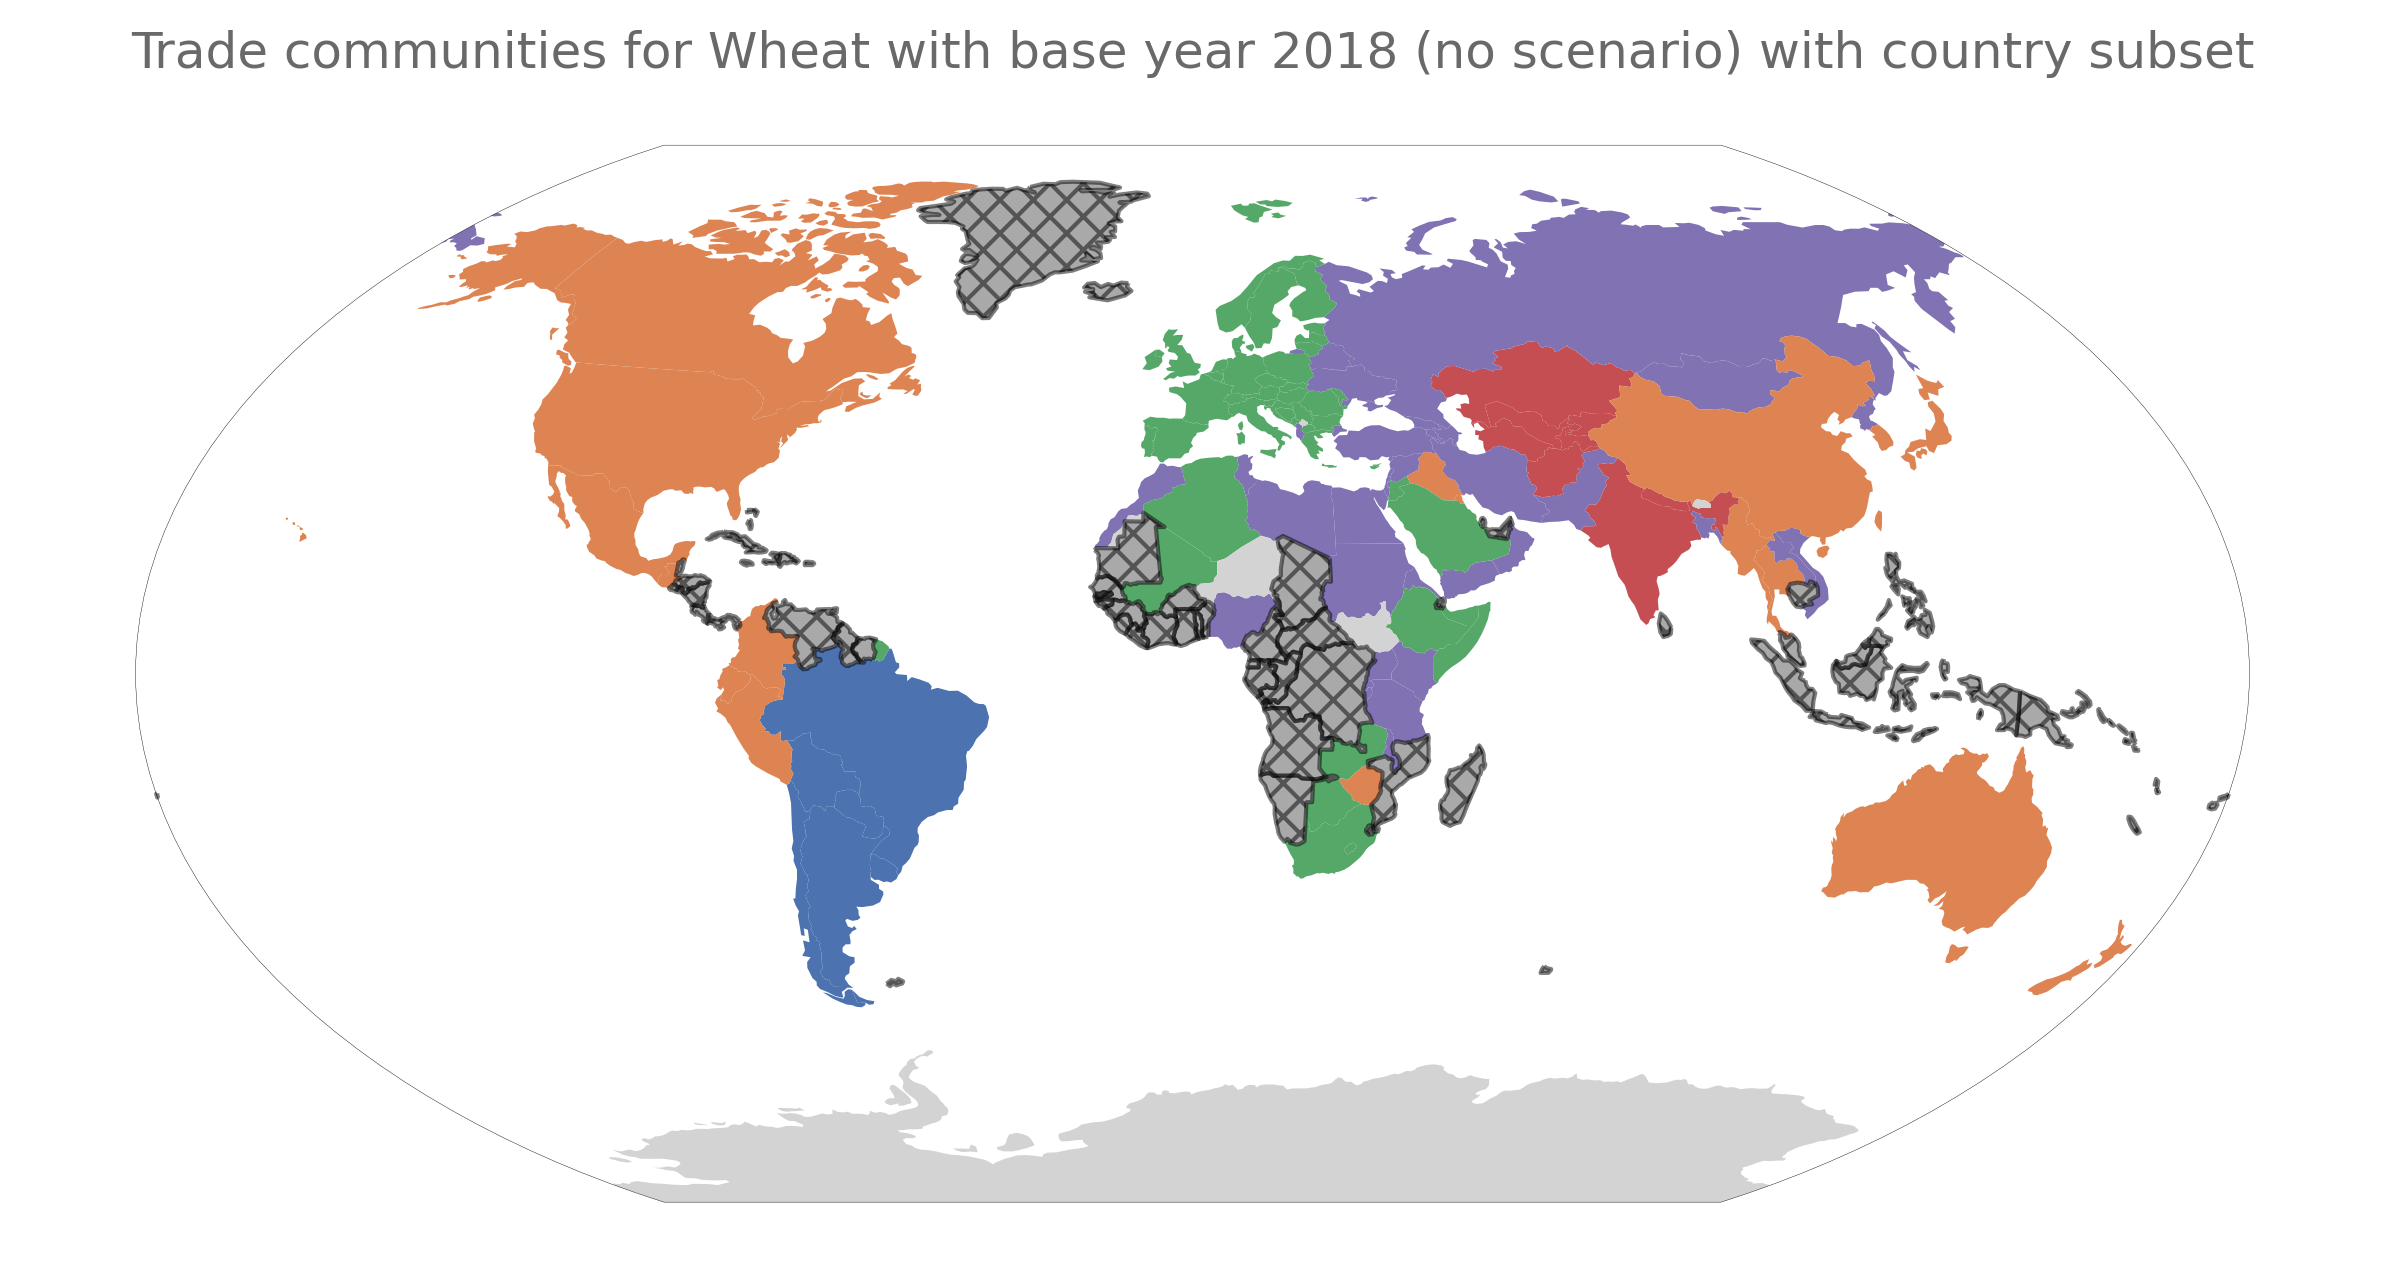
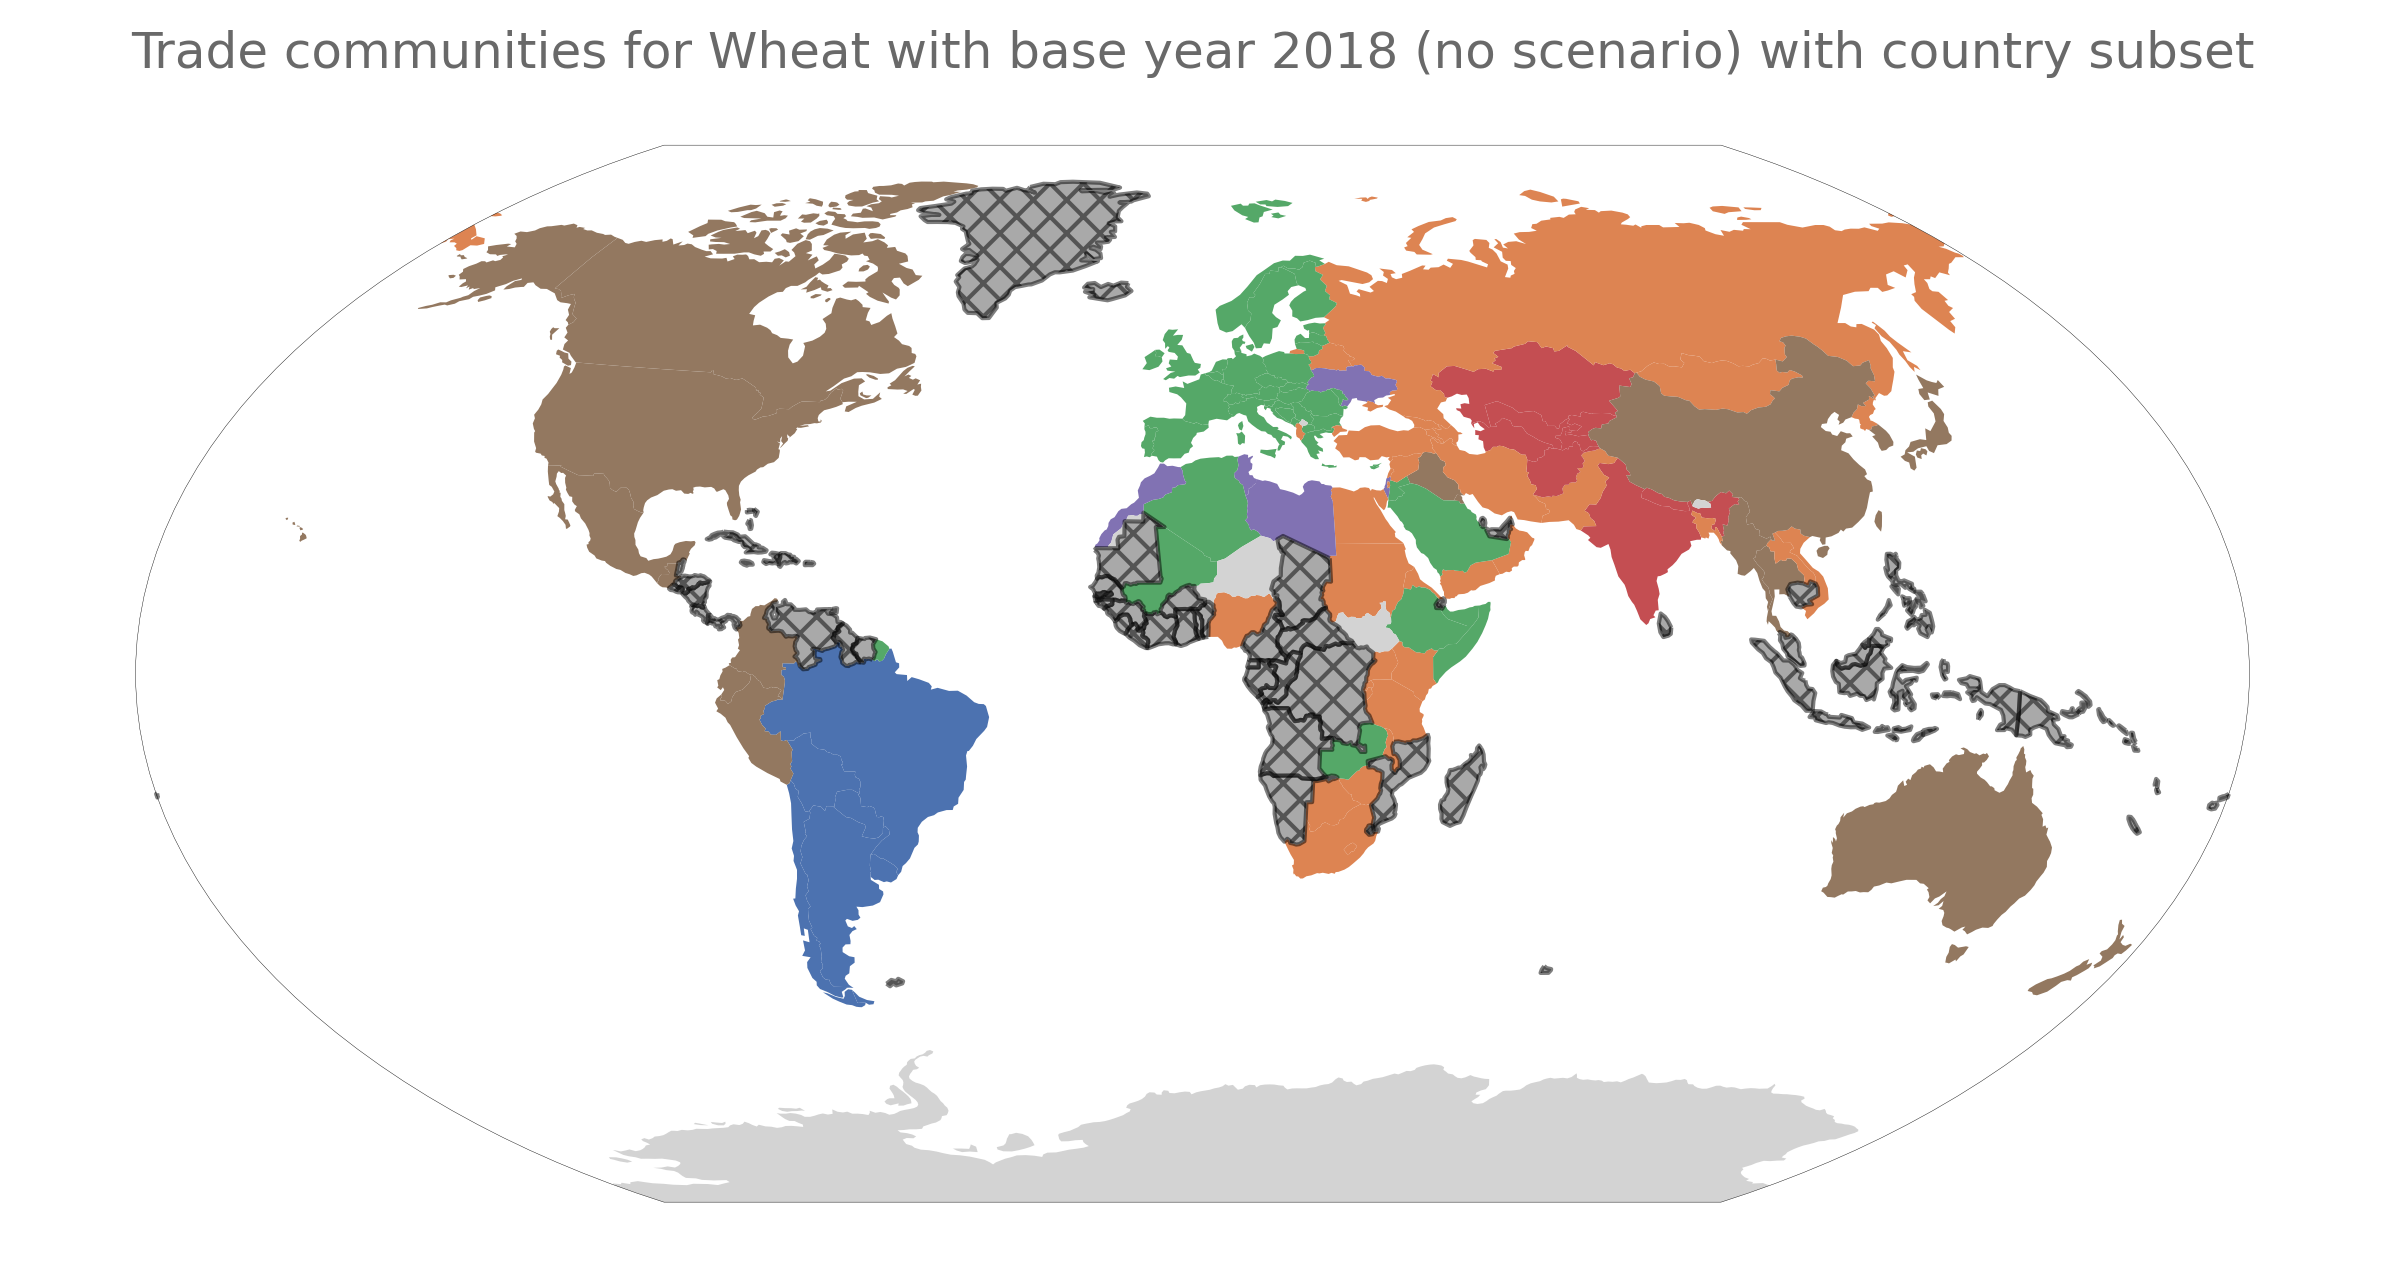
Tested if random seed changes the results, it does

diff --git a/src/model.py b/src/model.py
@@ -524,7 +524,7 @@ class PyTradeShifts:
         assert self.trade_graph is not None
         assert self.trade_communities is None
         # Find the communities
-        trade_communities = nx.community.louvain_communities(self.trade_graph, seed=1)
+        trade_communities = nx.community.louvain_communities(self.trade_graph, seed=2)
         # Remove all the communities with only one country and print the names of the
         # communities that are removed
         if self.keep_singletons:
